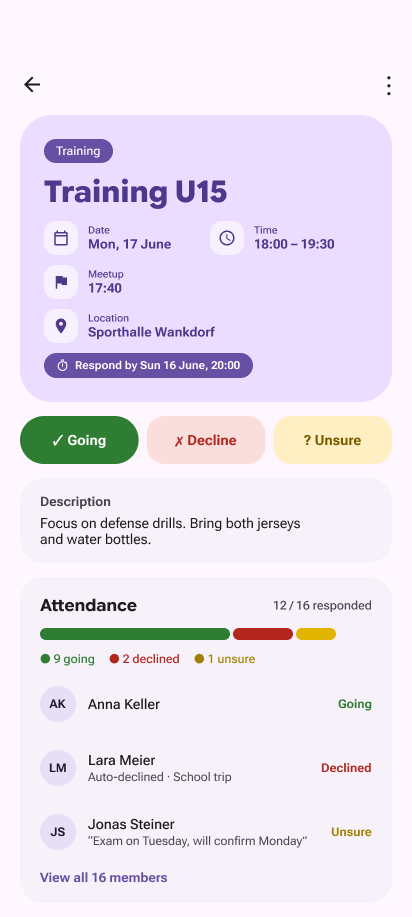
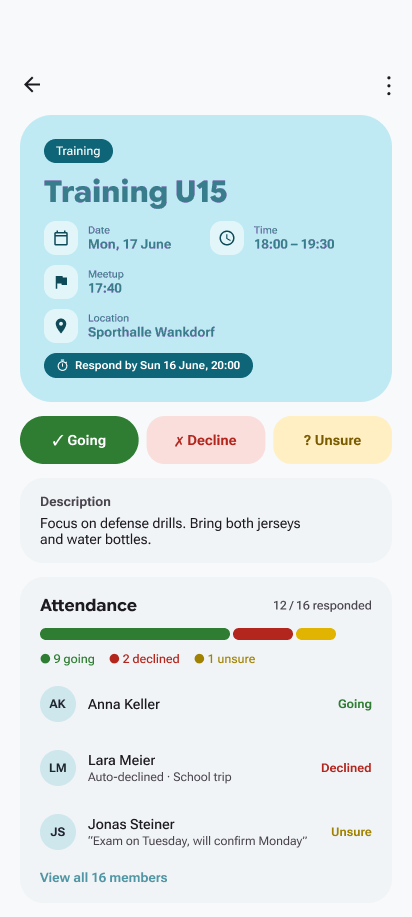
feat(landing): graphite contact section, subtle roster pattern reuse, teal app mockups

Changed region(s): [[0.0291, 0.1221, 0.9612, 0.458], [0.0874, 0.8855, 0.4078, 0.9771], [0.0874, 0.7328, 0.2039, 0.855]]

diff --git a/landing/src/lib/components/Hero.svelte b/landing/src/lib/components/Hero.svelte
@@ -1,52 +1,20 @@
 <script lang="ts">
 	import { Check } from 'lucide-svelte';
 	import PhoneMockup from './PhoneMockup.svelte';
+	import RosterPattern from './RosterPattern.svelte';
 	import type { Dict } from '$lib/i18n';
 
 	const eventsImg = '/mockups/events.png';
 	const detailImg = '/mockups/event-detail.png';
 
 	let { m }: { m: Dict['hero'] } = $props();
-
-	// "Tribüne" decorative pattern — rows of small rounded squares, alternating
-	// offset and color, opacity easing smoothly between rows.
-	const PATTERN_COLS = 34;
-	const PATTERN_ROWS = 14;
-	const X_PITCH = 48;
-	const Y_PITCH = 52;
-	const SQUARE = 20;
-	const OFFSET = 24;
-
-	type PatternRect = { x: number; y: number; color: string; opacity: number };
-
-	const patternRects: PatternRect[] = Array.from({ length: PATTERN_ROWS }, (_, row) => {
-		const isEven = row % 2 === 0;
-		const color = isEven ? '#64D8E8' : '#E2E4E8';
-		const xOffset = isEven ? 0 : OFFSET;
-		const opacity = +(0.08 + 0.42 * (0.5 + 0.5 * Math.sin(row * 0.7))).toFixed(3);
-		return Array.from({ length: PATTERN_COLS }, (_, col) => ({
-			x: xOffset + col * X_PITCH,
-			y: row * Y_PITCH,
-			color,
-			opacity
-		}));
-	}).flat();
 </script>
 
 <section
 	class="relative overflow-hidden bg-[#181C23]"
 	style="background-image: linear-gradient(to bottom right, #2C313B, #181C23);"
 >
-	<svg
-		class="pointer-events-none absolute inset-0 h-full w-full"
-		viewBox="0 0 1632 728"
-		preserveAspectRatio="xMidYMid slice"
-		aria-hidden="true"
-	>
-		{#each patternRects as r (r.x + ',' + r.y)}
-			<rect x={r.x} y={r.y} width={SQUARE} height={SQUARE} rx="6" fill={r.color} opacity={r.opacity} />
-		{/each}
-	</svg>
+	<RosterPattern />
 
 	<div
 		class="relative mx-auto flex max-w-content flex-col items-center gap-10 px-6 pb-16 pt-12 md:flex-row md:px-10 md:pb-20 md:pt-16"

diff --git a/landing/src/lib/components/RosterPattern.svelte b/landing/src/lib/components/RosterPattern.svelte
@@ -1,0 +1,44 @@
+<script lang="ts">
+	// "Tribüne" decorative pattern — rows of small rounded squares, alternating
+	// offset and color, opacity easing smoothly between rows. Extracted from Hero
+	// so sections can reuse it; `intensity` scales all square opacities (1 = hero look).
+	const PATTERN_COLS = 34;
+	const PATTERN_ROWS = 14;
+	const X_PITCH = 48;
+	const Y_PITCH = 52;
+	const SQUARE = 20;
+	const OFFSET = 24;
+
+	let { intensity = 1, class: klass = '' }: { intensity?: number; class?: string } = $props();
+
+	type PatternRect = { x: number; y: number; color: string; opacity: number };
+
+	const patternRects: PatternRect[] = $derived(
+		Array.from({ length: PATTERN_ROWS }, (_, row) => {
+			const isEven = row % 2 === 0;
+			const color = isEven ? '#64D8E8' : '#E2E4E8';
+			const xOffset = isEven ? 0 : OFFSET;
+			const opacity = +(
+				(0.08 + 0.42 * (0.5 + 0.5 * Math.sin(row * 0.7))) *
+				intensity
+			).toFixed(3);
+			return Array.from({ length: PATTERN_COLS }, (_, col) => ({
+				x: xOffset + col * X_PITCH,
+				y: row * Y_PITCH,
+				color,
+				opacity
+			}));
+		}).flat()
+	);
+</script>
+
+<svg
+	class="pointer-events-none absolute inset-0 h-full w-full {klass}"
+	viewBox="0 0 1632 728"
+	preserveAspectRatio="xMidYMid slice"
+	aria-hidden="true"
+>
+	{#each patternRects as r (r.x + ',' + r.y)}
+		<rect x={r.x} y={r.y} width={SQUARE} height={SQUARE} rx="6" fill={r.color} opacity={r.opacity} />
+	{/each}
+</svg>

diff --git a/landing/src/lib/components/Contact.svelte b/landing/src/lib/components/Contact.svelte
@@ -2,6 +2,7 @@
 	import { enhance } from '$app/forms';
 	import { Mail, Clock, Building2, Check } from 'lucide-svelte';
 	import MorphShape from './MorphShape.svelte';
+	import RosterPattern from './RosterPattern.svelte';
 	import type { Dict } from '$lib/i18n';
 
 	type ContactForm = {
@@ -38,10 +39,11 @@
 
 <section
 	id="kontakt"
-	class="scroll-mt-20 bg-gradient-to-br from-[#c9760e] to-[#a85e08]"
+	class="relative scroll-mt-20 overflow-hidden bg-gradient-to-br from-[#2C313B] to-[#14171D]"
 >
+	<RosterPattern intensity={0.22} />
 	<div
-		class="mx-auto flex max-w-content flex-col gap-12 px-6 py-20 md:flex-row md:items-center md:gap-16 md:px-10 md:py-24"
+		class="relative mx-auto flex max-w-content flex-col gap-12 px-6 py-20 md:flex-row md:items-center md:gap-16 md:px-10 md:py-24"
 	>
 		<!-- Info -->
 		<div data-reveal class="md:flex-1">

diff --git a/landing/src/lib/components/Footer.svelte b/landing/src/lib/components/Footer.svelte
@@ -1,12 +1,14 @@
 <script lang="ts">
 	import LogoMark from './LogoMark.svelte';
+	import RosterPattern from './RosterPattern.svelte';
 	import type { Dict, Locale } from '$lib/i18n';
 
 	let { m, lang }: { m: Dict['footer']; lang: Locale } = $props();
 </script>
 
-<footer class="bg-inverse-surface">
-	<div class="mx-auto max-w-content px-6 py-14 md:px-10">
+<footer class="relative overflow-hidden bg-inverse-surface">
+	<RosterPattern intensity={0.12} />
+	<div class="relative mx-auto max-w-content px-6 py-14 md:px-10">
 		<div class="flex flex-col justify-between gap-10 md:flex-row">
 			<!-- Brand -->
 			<div class="max-w-[300px]">
